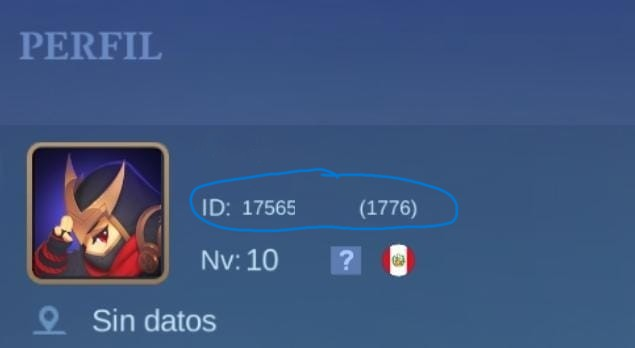
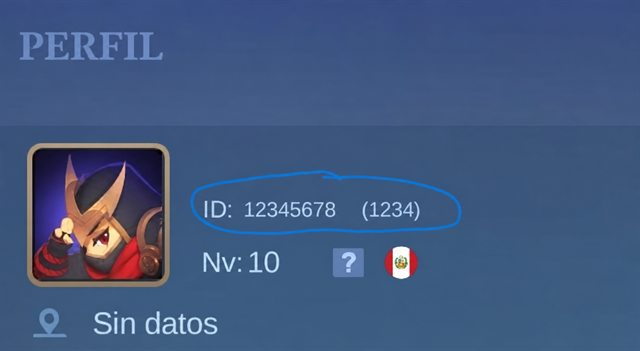
feat(checkout): mejorar accesibilidad de la ayuda y optimizar la visualización de la imagen

diff --git a/src/app/pages/checkout/chekout.css b/src/app/pages/checkout/chekout.css
@@ -802,6 +802,7 @@
 }
 
 .account-field {
+  position: relative;
   display: grid;
   grid-template-columns: minmax(0, 1fr);
   gap: 9px;
@@ -845,10 +846,11 @@
 
 .account-help-popover {
   position: absolute;
-  right: 0;
-  top: calc(100% + 12px);
+  right: calc(100% + 12px);
+  top: 50%;
   z-index: 8;
-  width: min(330px, calc(100vw - 48px));
+  width: min(310px, calc(100vw - 48px));
+  max-height: min(330px, calc(100vh - 112px));
   display: grid;
   gap: 8px;
   padding: 10px;
@@ -858,7 +860,8 @@
   box-shadow: 0 22px 54px rgba(0, 0, 0, 0.46);
   opacity: 0;
   pointer-events: none;
-  transform: translateY(8px) scale(0.98);
+  overflow: auto;
+  transform: translateY(calc(-50% + 8px)) scale(0.98);
   transition: opacity 160ms ease, transform 160ms ease;
 }
 
@@ -866,13 +869,16 @@
 .account-help-btn:focus .account-help-popover,
 .account-help-btn:focus-visible .account-help-popover {
   opacity: 1;
-  transform: translateY(0) scale(1);
+  transform: translateY(-50%) scale(1);
 }
 
 .account-help-popover img {
   width: 100%;
+  aspect-ratio: 16 / 9;
   display: block;
+  object-fit: contain;
   border-radius: 8px;
+  background: rgba(121, 215, 207, 0.08);
 }
 
 .account-help-popover strong {
@@ -1713,6 +1719,20 @@
 
   .ml-zone-box {
     column-gap: 5px;
+  }
+
+  .account-help-popover {
+    right: 0;
+    top: calc(100% + 10px);
+    width: min(300px, calc(100vw - 56px));
+    max-height: 280px;
+    transform: translateY(8px) scale(0.98);
+  }
+
+  .account-help-btn:hover .account-help-popover,
+  .account-help-btn:focus .account-help-popover,
+  .account-help-btn:focus-visible .account-help-popover {
+    transform: translateY(0) scale(1);
   }
 }
 

diff --git a/src/app/pages/checkout/chekout.html b/src/app/pages/checkout/chekout.html
@@ -140,7 +140,7 @@
                     <button class="account-help-btn" type="button" aria-label="Ver donde encontrar tu ID y Zone ID">
                       <span class="material-icons notranslate" translate="no">help</span>
                       <span class="account-help-popover" aria-hidden="true">
-                        <img src="/mobile-legends-id-guide.jpeg" alt="">
+                        <img src="/mobile-legends-id-guide.jpeg" alt="" loading="lazy" decoding="async">
                         <strong>Busca tu ID en tu perfil del juego.</strong>
                         <small>El primer numero es tu ID y el numero entre parentesis es el Zone ID.</small>
                       </span>
@@ -158,7 +158,7 @@
                         inputmode="numeric"
                         [(ngModel)]="idUsuario"
                         (ngModelChange)="clearIdAttention()"
-                        placeholder="Ej: 1756529665"
+                        placeholder="Ej: 12345678"
                         required>
                     </label>
 
@@ -172,7 +172,7 @@
                         maxlength="4"
                         [(ngModel)]="zoneIdUsuario"
                         (ngModelChange)="clearZoneAttention()"
-                        placeholder="1776"
+                        placeholder="1234"
                         required>
                       <span class="zone-mark">)</span>
                     </label>
